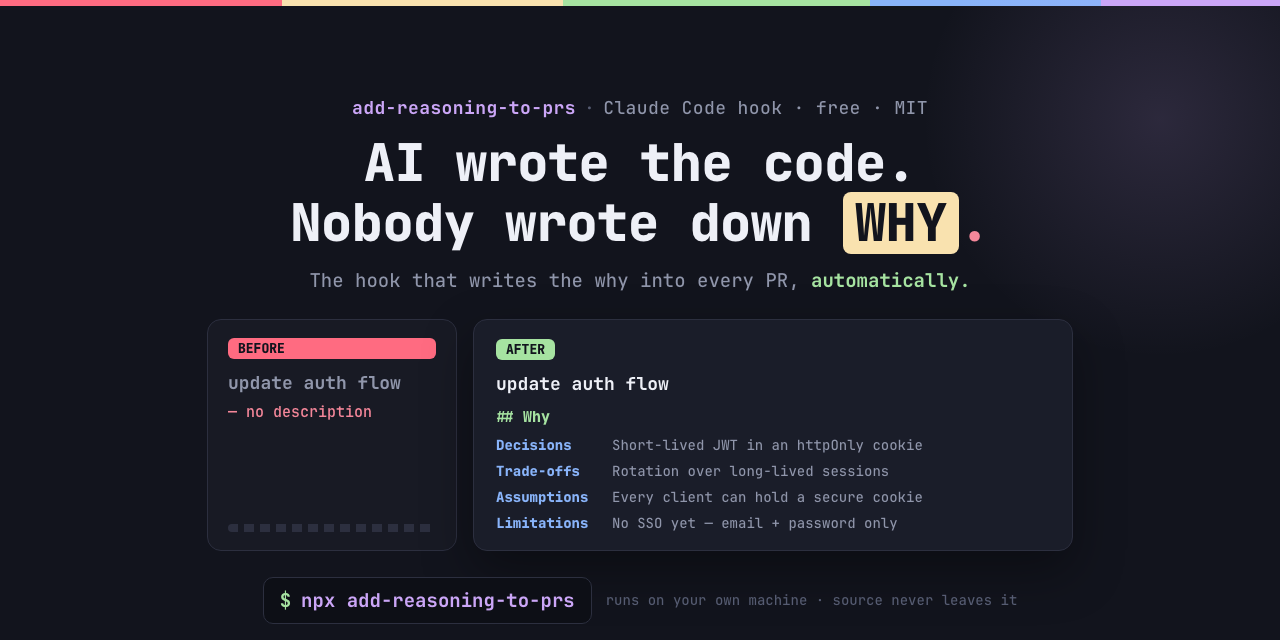
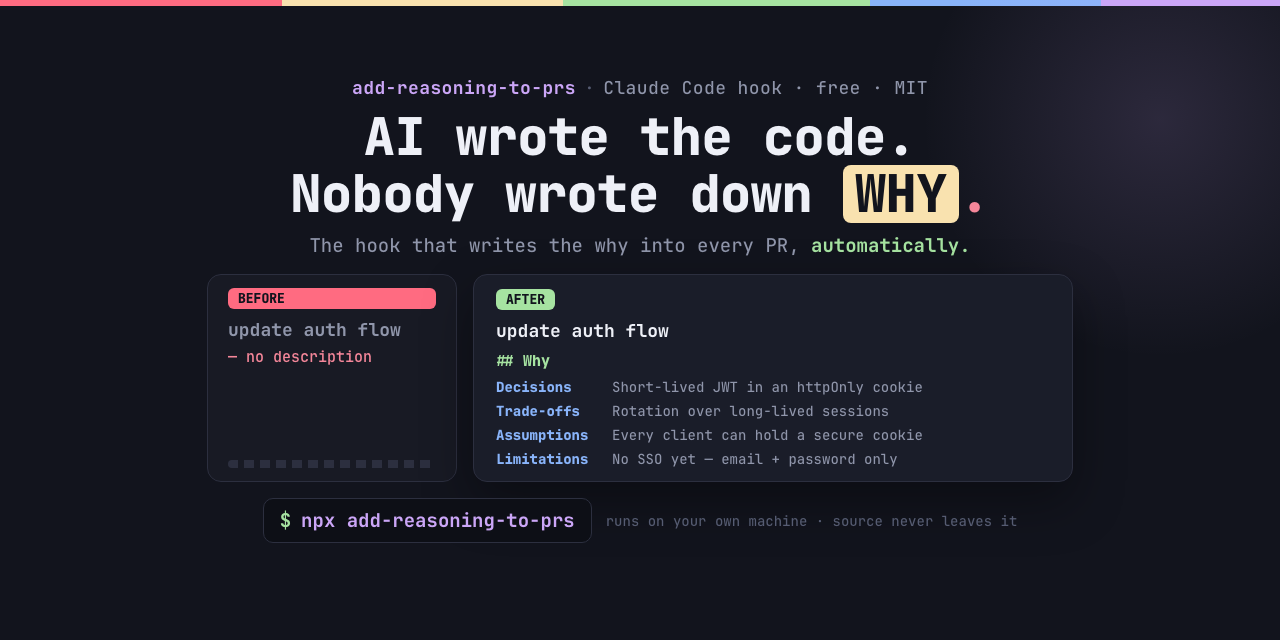
fix: pull the install bar back inside the safe area's bottom edge
The previous fix on this branch positioned the safe wrapper at
top:96px height:448px (96+448=544 < 570) and asserted containment from
that arithmetic. But the wrapper isn't overflow:hidden, so its height
never actually clipped anything — the real flex content ran taller
than 448px and pushed the install bar (the npx command + the 'source
never leaves it' line) to roughly y 578-624, past the safe area's
y<=570 edge. Caught by cropping the rendered PNG to the centered
1000x500 box and looking at the actual pixels, not the CSS.

Tightened the vertical rhythm (smaller top offset, tighter margins
between the kicker/headline/sub-line/proof-row/install-bar, slightly
less card padding and row spacing) without touching the headline's
font size. Re-measured on the rendered PNG: the lowest content pixel
in the safe area's x-range is now y=542, 28px inside the y<=570 edge.
Re-verified the crop visually and re-checked legibility at 600px and
250px wide — unchanged from before, everything still reads.

diff --git a/assets/og-card.html b/assets/og-card.html
@@ -41,48 +41,50 @@
   .glow{position:absolute;right:-120px;top:-120px;width:480px;height:480px;border-radius:50%;
     background:radial-gradient(circle,rgba(203,166,247,.14),transparent 70%);}
 
-  /* everything below lives inside the centered 1000x500 safe box, with a margin buffer:
-     safe box = x:[140,1140] y:[70,570]; this wrapper sits at x:[170,1110] y:[96,544]. */
-  .safe{position:absolute;left:170px;top:96px;width:940px;height:448px;
+  /* everything below lives inside the centered 1000x500 safe box: x:[140,1140] y:[70,570].
+     This wrapper's top is deliberately just inside that edge (buffer, not the height —
+     the box below is NOT overflow:hidden, so its own height is decorative, not a clip.
+     Containment is verified by rendering + cropping the actual PNG, not by this number. */
+  .safe{position:absolute;left:170px;top:76px;width:940px;
     display:flex;flex-direction:column;align-items:center;text-align:center}
 
   .kicker{font-size:18px;font-weight:700;color:var(--mauve);letter-spacing:.4px}
   .kicker .sep{color:var(--faint);font-weight:500;margin:0 8px}
   .kicker .tag{color:var(--dim);font-weight:500}
 
-  h1{font-size:52px;line-height:1.14;font-weight:800;letter-spacing:-.5px;margin-top:14px}
+  h1{font-size:52px;line-height:1.08;font-weight:800;letter-spacing:-.5px;margin-top:10px}
   .chip{display:inline-block;border-radius:8px;padding:1px 12px;color:#12141d;font-weight:800;background:var(--yellow)}
   h1 .coral{color:var(--coraltxt)}
 
-  .sub{font-size:19px;color:var(--dim);margin-top:14px;font-weight:500}
+  .sub{font-size:19px;color:var(--dim);margin-top:10px;font-weight:500}
   .sub .g{color:var(--green);font-weight:700}
 
   /* the before/after proof row */
-  .proof{margin-top:26px;display:flex;align-items:stretch;gap:16px;width:100%;justify-content:center}
+  .proof{margin-top:16px;display:flex;align-items:stretch;gap:16px;width:100%;justify-content:center}
 
   .before{width:250px;flex:0 0 250px;background:var(--panel2);border:1px solid var(--line);
-    border-radius:14px;padding:18px 20px;text-align:left;display:flex;flex-direction:column}
+    border-radius:14px;padding:13px 20px;text-align:left;display:flex;flex-direction:column}
   .after{width:600px;flex:0 0 600px;background:var(--panel);border:1px solid var(--line);
-    border-radius:14px;padding:18px 22px;text-align:left;box-shadow:0 20px 50px rgba(0,0,0,.35)}
+    border-radius:14px;padding:13px 22px;text-align:left;box-shadow:0 20px 50px rgba(0,0,0,.35)}
 
   .badge{display:inline-block;border-radius:6px;padding:2px 10px;font-size:13px;font-weight:800;color:#12141d}
   .badge.b{background:var(--coral)}
   .badge.a{background:var(--green)}
 
-  .prtitle{font-size:18px;font-weight:700;margin-top:12px}
+  .prtitle{font-size:18px;font-weight:700;margin-top:9px}
   .before .prtitle{color:var(--dim)}
-  .empty{font-size:15px;color:var(--coraltxt);margin-top:8px;font-weight:600}
+  .empty{font-size:15px;color:var(--coraltxt);margin-top:6px;font-weight:600}
   .emptybar{margin-top:auto;height:8px;border-radius:4px;background:repeating-linear-gradient(90deg,var(--line) 0 10px,transparent 10px 16px)}
 
-  .why{font-size:15px;font-weight:800;color:var(--green);margin-top:12px}
-  .rows{margin-top:9px;display:flex;flex-direction:column;gap:8px}
+  .why{font-size:15px;font-weight:800;color:var(--green);margin-top:9px}
+  .rows{margin-top:7px;display:flex;flex-direction:column;gap:6px}
   .row{display:flex;gap:8px;align-items:baseline}
   .row .lab{font-size:14px;font-weight:800;color:var(--cyan);flex:0 0 108px}
   .row .txt{font-size:14px;color:var(--dim);font-weight:500}
 
-  .install{margin-top:26px;display:flex;align-items:center;gap:14px}
+  .install{margin-top:16px;display:flex;align-items:center;gap:14px}
   .cmd{display:inline-flex;align-items:center;gap:10px;background:#0d0f16;border:1px solid var(--line);
-    border-radius:10px;padding:10px 16px;font-size:19px;font-weight:700}
+    border-radius:10px;padding:9px 16px;font-size:19px;font-weight:700}
   .cmd .p{color:var(--green)}
   .cmd .npx{color:var(--mauve)}
   .meta{font-size:14px;color:var(--faint);font-weight:500}
